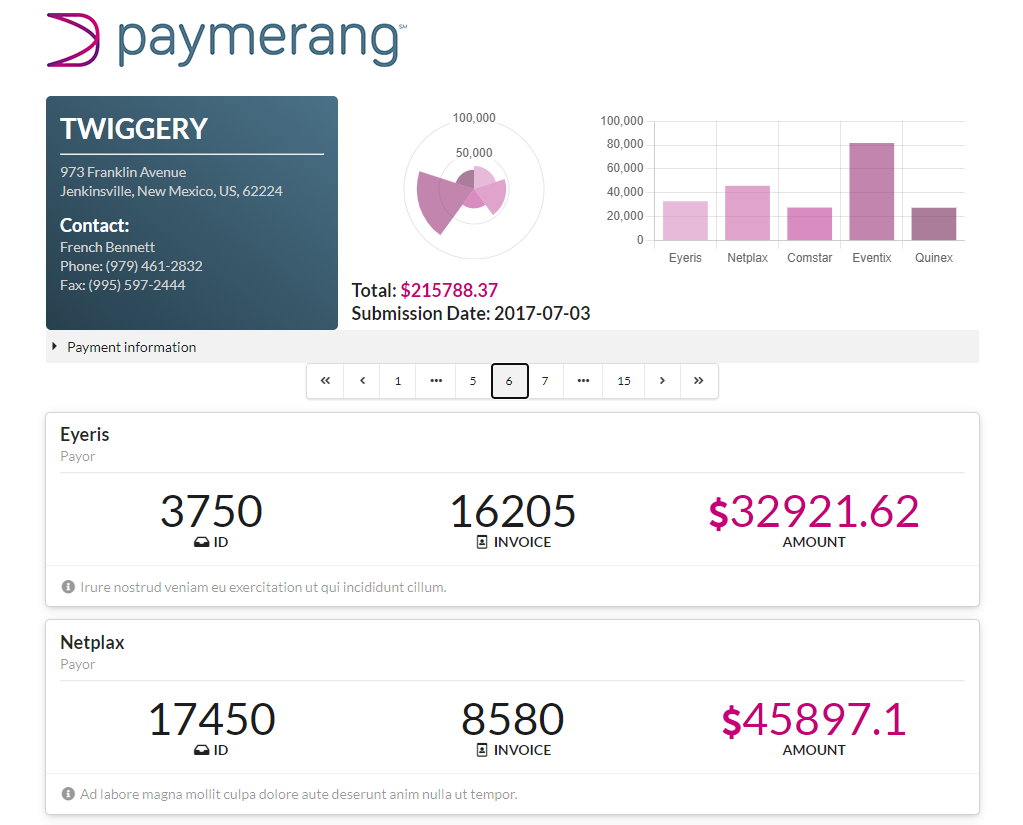
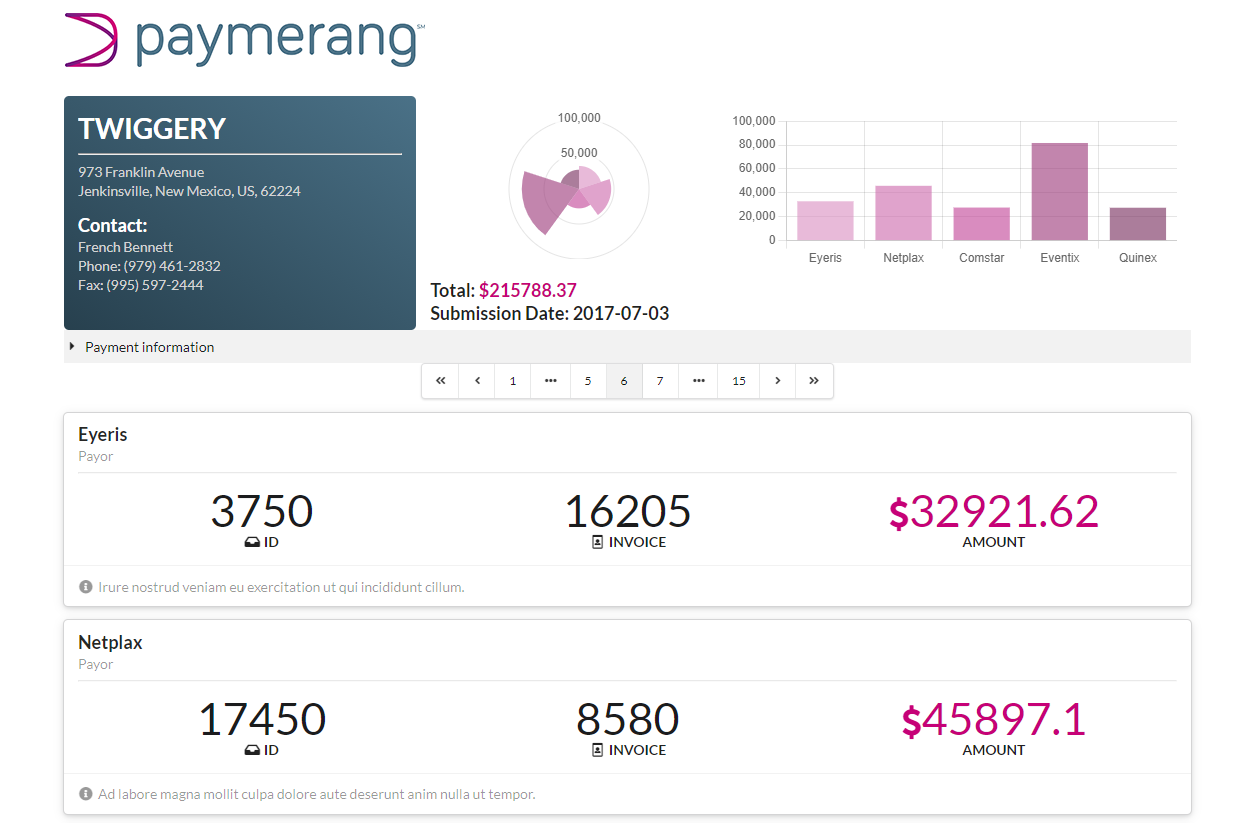
edited screenshot and updated code spacing

diff --git a/src/components/PayorDeck.js b/src/components/PayorDeck.js
@@ -12,23 +12,31 @@ function PayorDeck({ id, data }) {
 							<Card.Header>{payor.PayorName}</Card.Header>
 							<Card.Meta>
 								<p>Payor</p>
-                                <hr style={{ borderColor: 'rgb(230, 230, 230, 0.2)', margin: '0 0 1em 0'}}></hr>
-
+								<hr
+									style={{
+										borderColor: "rgb(230, 230, 230, 0.2)",
+										margin: "0 0 1em 0",
+									}}
+								></hr>
 							</Card.Meta>
 							<Statistic.Group widths='3'>
 								<Statistic>
 									<Statistic.Value>{payor.PayorId}</Statistic.Value>
-									<Statistic.Label><Icon name='inbox'/>ID</Statistic.Label>
+									<Statistic.Label>
+										<Icon name='inbox' />
+										ID
+									</Statistic.Label>
 								</Statistic>
 								<Statistic>
 									<Statistic.Value>{payor.InvoiceNo}</Statistic.Value>
-									<Statistic.Label><Icon name='id badge outline'/>Invoice</Statistic.Label>
+									<Statistic.Label>
+										<Icon name='id badge outline' />
+										Invoice
+									</Statistic.Label>
 								</Statistic>
 								<Statistic>
-									<Statistic.Value
-										style={{ color: "#c60177" }}
-									>
-										<Icon name='dollar' size='small'/>
+									<Statistic.Value style={{ color: "#c60177" }}>
+										<Icon name='dollar' size='small' />
 										{number}
 									</Statistic.Value>
 									<Statistic.Label>Amount</Statistic.Label>

diff --git a/src/components/PayeeChart.js b/src/components/PayeeChart.js
@@ -37,7 +37,7 @@ function PayeeChart({ id, data }) {
 	return (
 		<>
 			<Grid.Column>
-				<div style={{ float: "left", padding: "15px 0 0 0", width: "40%"}}>
+				<div style={{ float: "left", padding: "15px 0 0 0", width: "40%" }}>
 					<PolarArea
 						data={chartData}
 						options={{
